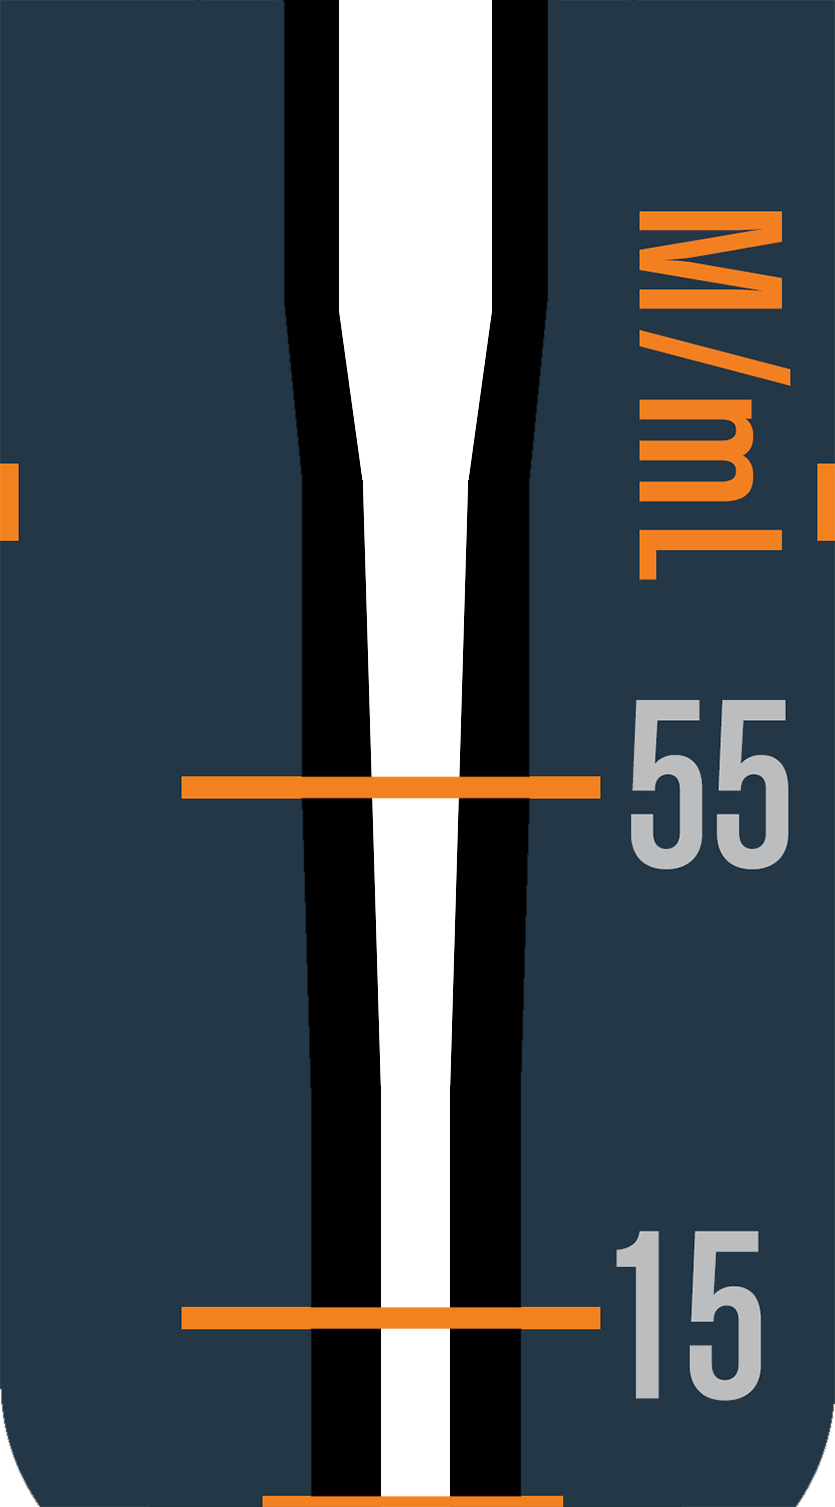
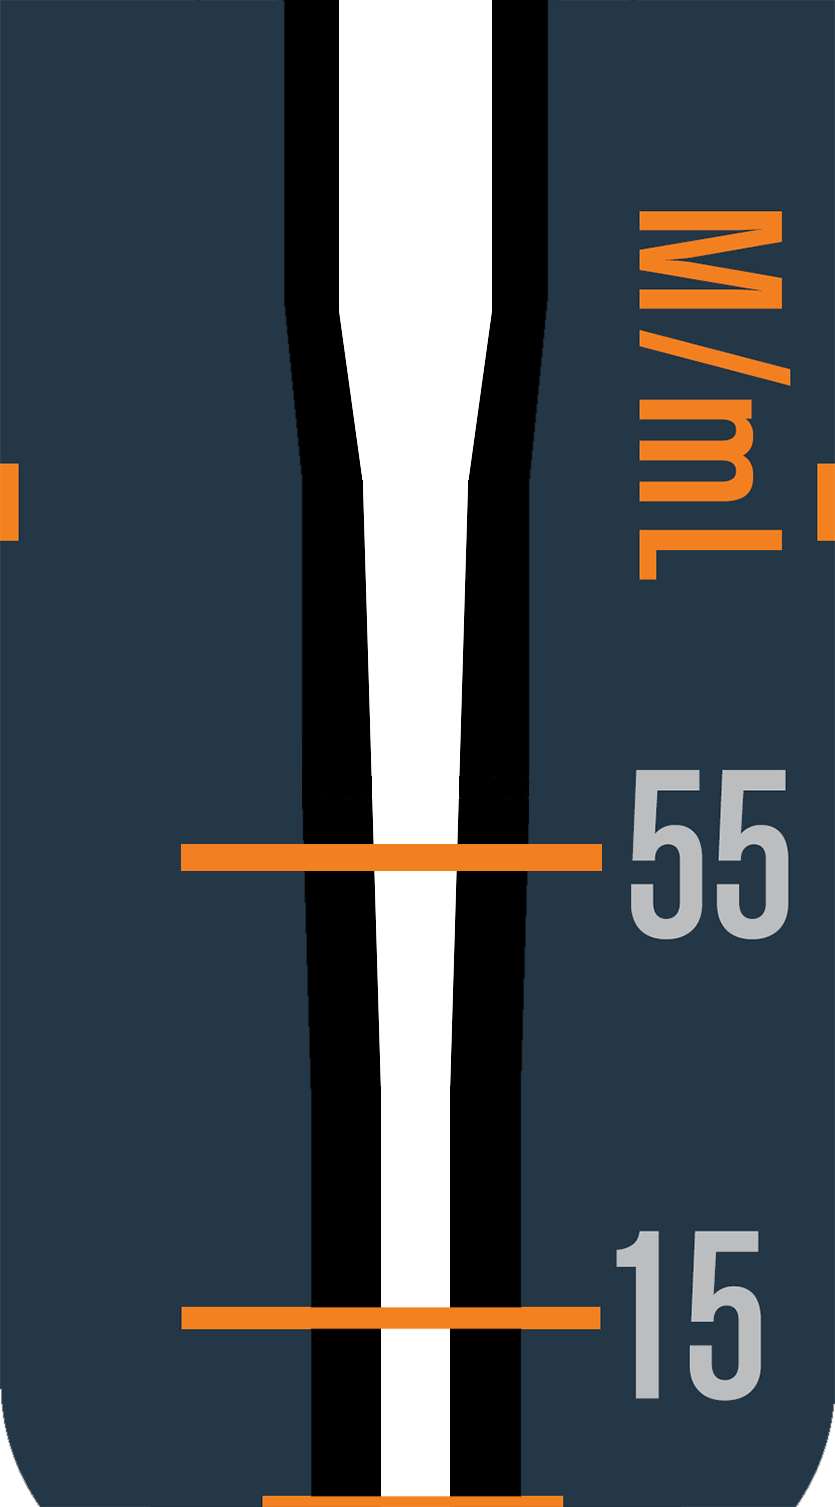
resize bar

Changed region(s): [[0.7473, 0.4366, 0.9653, 0.6238], [0.218, 0.5614, 0.7162, 0.5926], [0.218, 0.499, 0.7162, 0.5302]]

diff --git a/screens/trak/EnterTrakResultScreen.js b/screens/trak/EnterTrakResultScreen.js
@@ -15,8 +15,8 @@ import HeaderBackButton from '../../components/HeaderBackButton';
 // import HeaderButtons from 'react-navigation-header-buttons'
 // import MaterialIcons from 'react-native-vector-icons/MaterialIcons';
 
-const maxBarHeight = 367;
-
+let maxBarHeight = 367;
+let percentSize = 1;
 export default class EnterTrakResultScreen extends BaseScreen {
     static navigationOptions = ({navigation}) => {
         return {
@@ -42,7 +42,17 @@ export default class EnterTrakResultScreen extends BaseScreen {
         this.state = {
             barHeight: 0,
             prevHeight: 0,
-            barValue: 0
+            barValue: 0,
+            barContainerDimensions: {width: 0, height: 0},
+            barTopHeight: 70,
+            barCenterHeight: 300,
+            barBottomHeight: 24,
+            barWidth: 150,
+            barBgBlackSmallWidth: 150,
+            styleBarWidth: 148,
+            styleBarLeft: 0,
+            styleBarBottom: 26,
+            styleBarBgBlackBigHeight: 370
         };
 
         this.panResponder = PanResponder.create({
@@ -89,16 +99,29 @@ export default class EnterTrakResultScreen extends BaseScreen {
 
                     {/*<Text>move count: {this.state.barHeight} Value: {this.state.barValue}</Text>*/}
 
-                    <View style={styles.barContainer}>
-                        <View style={styles.barBgBlackSmall}/>
-                        <View style={styles.barBgBlackBig}/>
-                        <View style={styles.bar} height={this.state.barHeight}/>
+                    <View onLayout={this._onLayout} style={styles.barContainer}>
+                        <View style={[styles.barBgBlackSmall, {width: this.state.barBgBlackSmallWidth}]}/>
+                        <View style={[styles.barBgBlackBig, {height: this.state.styleBarBgBlackBigHeight}]}/>
+
+                        <View style={[styles.bar, {
+                            left: this.state.styleBarLeft,
+                            width: this.state.styleBarWidth,
+                            bottom: this.state.styleBarBottom
+                        }]}
+                              height={this.state.barHeight}/>
+
                         <Image source={require('../../assets/images/trak_bar/prop_top_compressed.png')}
-                               style={styles.barTop}/>
+                               style={[styles.barTop, {height: this.state.barTopHeight, width: this.state.barWidth}]}/>
                         <Image source={require('../../assets/images/trak_bar/prop_center_compressed.png')}
-                               style={styles.barCenter}/>
+                               style={[styles.barCenter, {
+                                   height: this.state.barCenterHeight,
+                                   width: this.state.barWidth
+                               }]}/>
                         <Image source={require('../../assets/images/trak_bar/prop_bottom_compressed.png')}
-                               style={styles.barBottom}/>
+                               style={[styles.barBottom, {
+                                   height: this.state.barBottomHeight,
+                                   width: this.state.barWidth
+                               }]}/>
                     </View>
 
                     <View style={styles.btnControlContainer}>
@@ -183,51 +206,87 @@ export default class EnterTrakResultScreen extends BaseScreen {
 
     _calculateValue = () => {
         const h = this.state.barHeight;
-        const value = Math.round(h / 2.5);
+        const value = Math.round(h / (2.4 * percentSize));
         // console.log(`H: ${h} value: ${value}`);
         this.setState(
             {barValue: value}
         );
     }
+
+    _onLayout = event => {
+        // if (this.state.dimensions) return // layout was already called
+        const minBarTopHeight = 70;
+        const minBarCenterHeight = 300;
+        const minBarBottomHeight = 24;
+        const minBarWidth = 140;
+        const minBarBottom = 26;
+        const minMaxBarHeight = 367;
+        const minBarBgBlackBig = 370;
+
+        let {width, height} = event.nativeEvent.layout;
+
+        percentSize = ((height * 100) / barHeight) / 100;
+
+        this.setState({barContainerDimensions: {width, height}});
+
+        this.setState({barTopHeight: minBarTopHeight * percentSize});
+        this.setState({barCenterHeight: minBarCenterHeight * percentSize});
+        // this.setState({barBottomHeight: minBarBottomHeight * percentSize});
+        this.setState({barWidth: minBarWidth * percentSize});
+        this.setState({barBgBlackSmallWidth: minBarWidth * percentSize});
+
+        this.setState({styleBarLeft: width / 2 - (( (minBarWidth - 4 ) * percentSize ) / 2)});
+
+        this.setState({styleBarWidth: (minBarWidth - 4) * percentSize});
+        this.setState({styleBarBottom: minBarBottom * percentSize});
+        this.setState({styleBarBgBlackBigHeight: minBarBgBlackBig * percentSize});
+        maxBarHeight = minMaxBarHeight * percentSize;
+
+        console.log({width, height});
+
+
+    }
 }
 
 
 let Window = Dimensions.get('window');
-const barWidth = 160;
+const barWidth = 150;
+const barHeight = 394;
 const styles = StyleSheet.create({
     bar: {
         position: 'absolute',
         backgroundColor: '#ffffff',
         height: 1,
-        width: barWidth - 2,
-        bottom: 26,
-        left: Window.width / 2 - ((barWidth - 2) / 2),
+        // width: barWidth - 2,
+        // bottom: 26,
+        // left: Window.width / 2 - ((barWidth - 2) / 2),
     },
     barContainer: {
-        // flex: 1,
+        flex: 1,
         // backgroundColor: '#fffe03',
         marginTop: 10,
+        marginBottom: 30,
         alignItems: 'center',
     },
     barTop: {
         resizeMode: Image.resizeMode.stretch,
-        width: barWidth,
-        height: 70,
+        // width: barWidth,
+        // height: 70,
         // backgroundColor: '#fffe03',
     },
     barCenter: {
         resizeMode: Image.resizeMode.stretch,
-        width: barWidth,
-        height: 300
+        // width: barWidth,
+        // height: 300
     },
     barBottom: {
         resizeMode: Image.resizeMode.stretch,
-        width: barWidth,
-        height: 24
+        // width: barWidth,
+        // height: 24
     },
     barBgBlackBig: {
-        width: 100,
-        height: 390,
+        width: 95,
+        // height: 390,
         backgroundColor: "#000",
         position: "absolute"
     },
@@ -245,10 +304,11 @@ const styles = StyleSheet.create({
         textAlign: 'justify'
     },
     bottomContainer: {
-        position: 'absolute',
-        bottom: 10,
-        left: 0,
-        right: 0
+        marginBottom: 10
+        // position: 'absolute',
+        // bottom: 10,
+        // left: 0,
+        // right: 0
     },
     btnControlContainer: {
         position: 'absolute',

diff --git a/screens/trak/MainScreen.js b/screens/trak/MainScreen.js
@@ -80,15 +80,18 @@ export default class TrakScreen extends BaseScreen {
                 </View>
 
 
-                <Text style={mainStyles.headerContainer}>RESULTS</Text>
+                <View style={{flex: 1}}>
+                    <Text style={mainStyles.headerContainer}>RESULTS</Text>
 
-                <FlatList style={styles.resultContainer}
-                          data={this.state.resultList}
-                          renderItem={({item}) => <TrakResultListItem key={item.key} _key={item.key} date={item.date}
-                                                                      result={item.result}
-                                                                      value={item.value}
-                                                                      onPressRemoveItem={this.callRemoveItem.bind(this)}/>}
-                />
+                    <FlatList style={styles.resultContainer}
+                              data={this.state.resultList}
+                              renderItem={({item}) => <TrakResultListItem key={item.key} _key={item.key}
+                                                                          date={item.date}
+                                                                          result={item.result}
+                                                                          value={item.value}
+                                                                          onPressRemoveItem={this.callRemoveItem.bind(this)}/>}
+                    />
+                </View>
 
                 <View style={styles.btnContainer}>
                     <Button
@@ -98,9 +101,9 @@ export default class TrakScreen extends BaseScreen {
                         }}
 
                         backgroundColor="#3b98da"
-                         containerStyle={{
-                             flex: 1
-                         }}
+                        containerStyle={{
+                            flex: 1
+                        }}
                         buttonStyle={{
                             height: 45,
                             margin: 10,
@@ -113,9 +116,9 @@ export default class TrakScreen extends BaseScreen {
                         }}
 
                         backgroundColor="#3b98da"
-                         containerStyle={{
-                             flex: 1
-                         }}
+                        containerStyle={{
+                            flex: 1
+                        }}
                         buttonStyle={{
                             height: 45,
                             margin: 10,
@@ -137,7 +140,7 @@ export default class TrakScreen extends BaseScreen {
         }
         avgValue = avgValue / _.size(list);
 
-        this.setState({progress: avgValue});
+        this.setState({progress: avgValue * 0.94});
         this.setState({resultList: list});
     }
 }
@@ -153,8 +156,7 @@ const styles = StyleSheet.create({
         backgroundColor: '#FDFDFD'
     },
     btnContainer: {
-        flex:1,
         flexDirection: 'row',
-        marginBottom:10
+        marginBottom: 10
     }
 })

diff --git a/components/TrakResultListItem.js b/components/TrakResultListItem.js
@@ -22,7 +22,7 @@ export default class TrakResultListItem extends React.PureComponent {
             _result = 'Moderate';
             _color = '#ffe43c';
         }
-        if (value < 15) {
+        if (value <= 15) {
             _result = 'Low';
             _color = '#d23e36';
         }

diff --git a/screens/trak/SemenAnalysisScreen.js b/screens/trak/SemenAnalysisScreen.js
@@ -139,7 +139,8 @@ const styles = StyleSheet.create({
         position: 'absolute',
         bottom: 10,
         left: 0,
-        right: 0
+        right: 0,
+        marginBottom:10
     },
     bottomText: {
         marginTop: 10,
